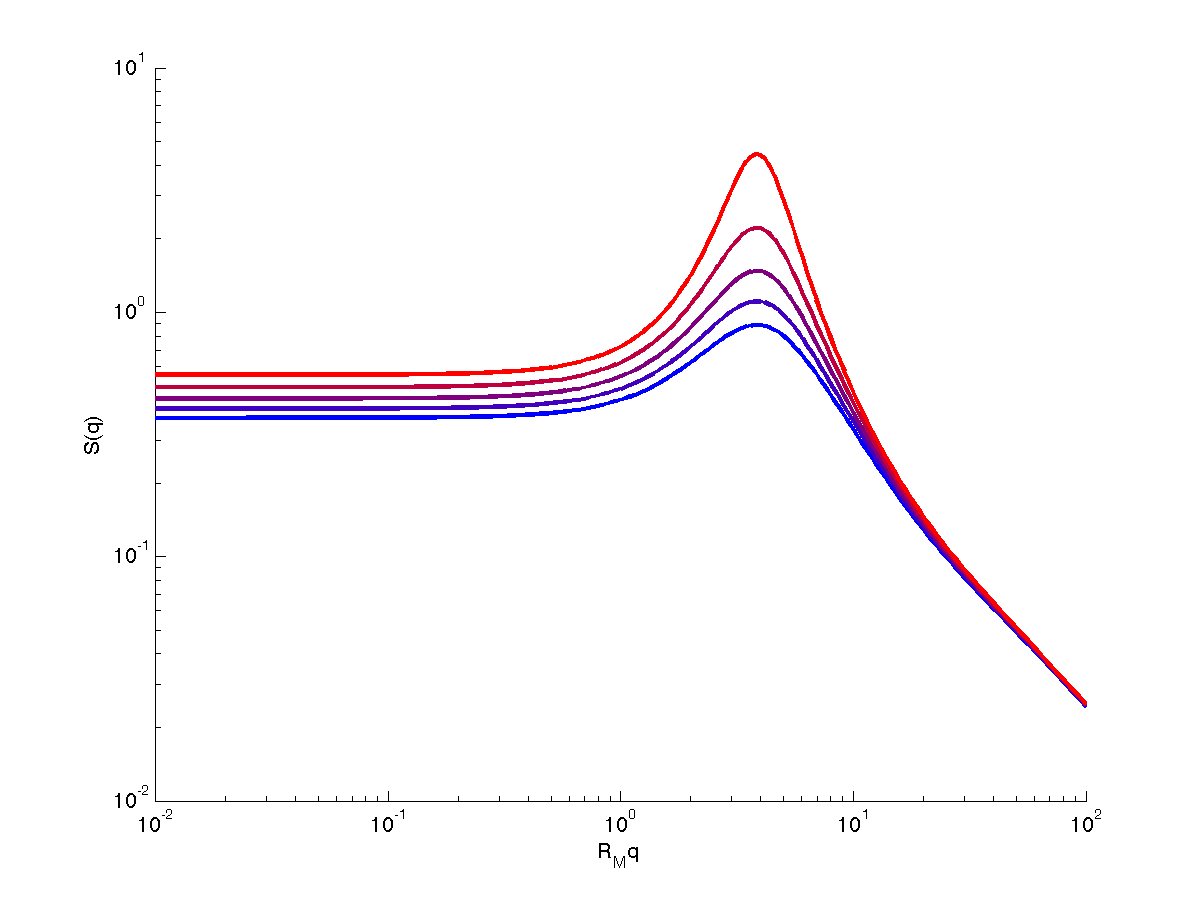
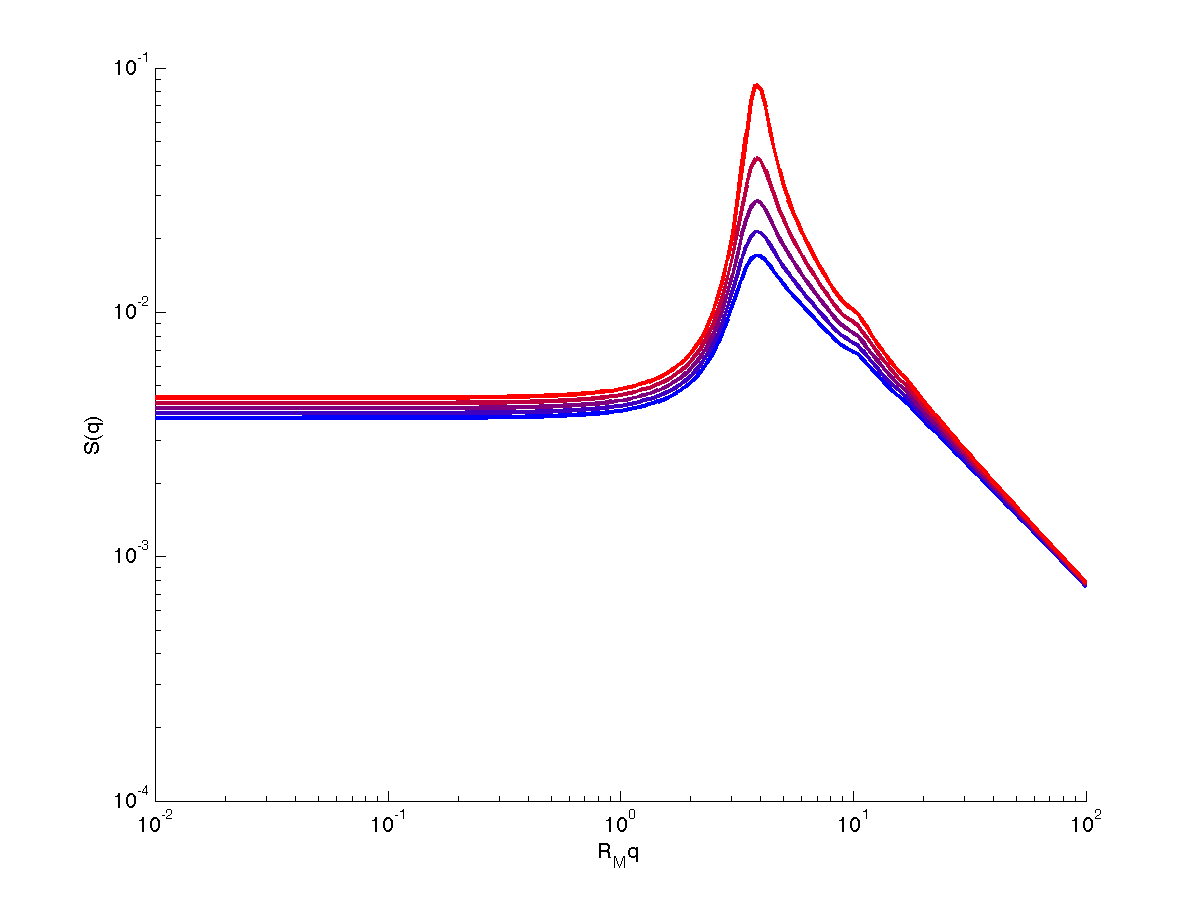
updated readme

diff --git a/example.m b/example.m
@@ -11,7 +11,7 @@ clear
 
 % Example 1: plot density-density correlations vs wavevector at different CHI
 N=100;  % total of 100 monomers
-NM=10; % each monomer has 10 Kuhn steps
+NM=0.1; % each monomer has 0.1 Kuhn steps
 LAM=-0.75; % anti-correlated random copolymer
 FA=0.5;    % equal chemical composition
 
@@ -35,7 +35,7 @@ for I=1:length(CHI)
 end
 xlabel('R_Mq');ylabel('S(q)')
 set(gca,'xscale','log');set(gca,'yscale','log');
-axis([K0 KF 1e-2 1e1])
+axis([K0 KF 1e-4 1e-1])
 saveas(gcf,'example_figures/example1.png')
 
 % Example 2: find spinodal vs. fraction of A monomers

diff --git a/README.md b/README.md
@@ -14,7 +14,7 @@ addpath('functions')
 
 Example Usage
 --------------
-Here is an example of using the code to calculate the structure factor (density-density correlations) of flexible, anti-correlated random copolymers.
+Here is an example of using the code to calculate the structure factor (density-density correlations) of rigid, anti-correlated random copolymers.
 
 ``` matlab
 % Example 1: plot density-density correlations vs wavevector at different CHI
@@ -47,7 +47,7 @@ axis([K0 KF 1e-2 1e1])
 ```
 ![](example_figures/example1.png)
 
-As another example, the spinodal (order-disorder transition) of random copolymers
+As another example, the spinodal (order-disorder transition) of flexible random copolymers
 
 ``` matlab
 % Example 2: find spinodal vs. fraction of A monomers
